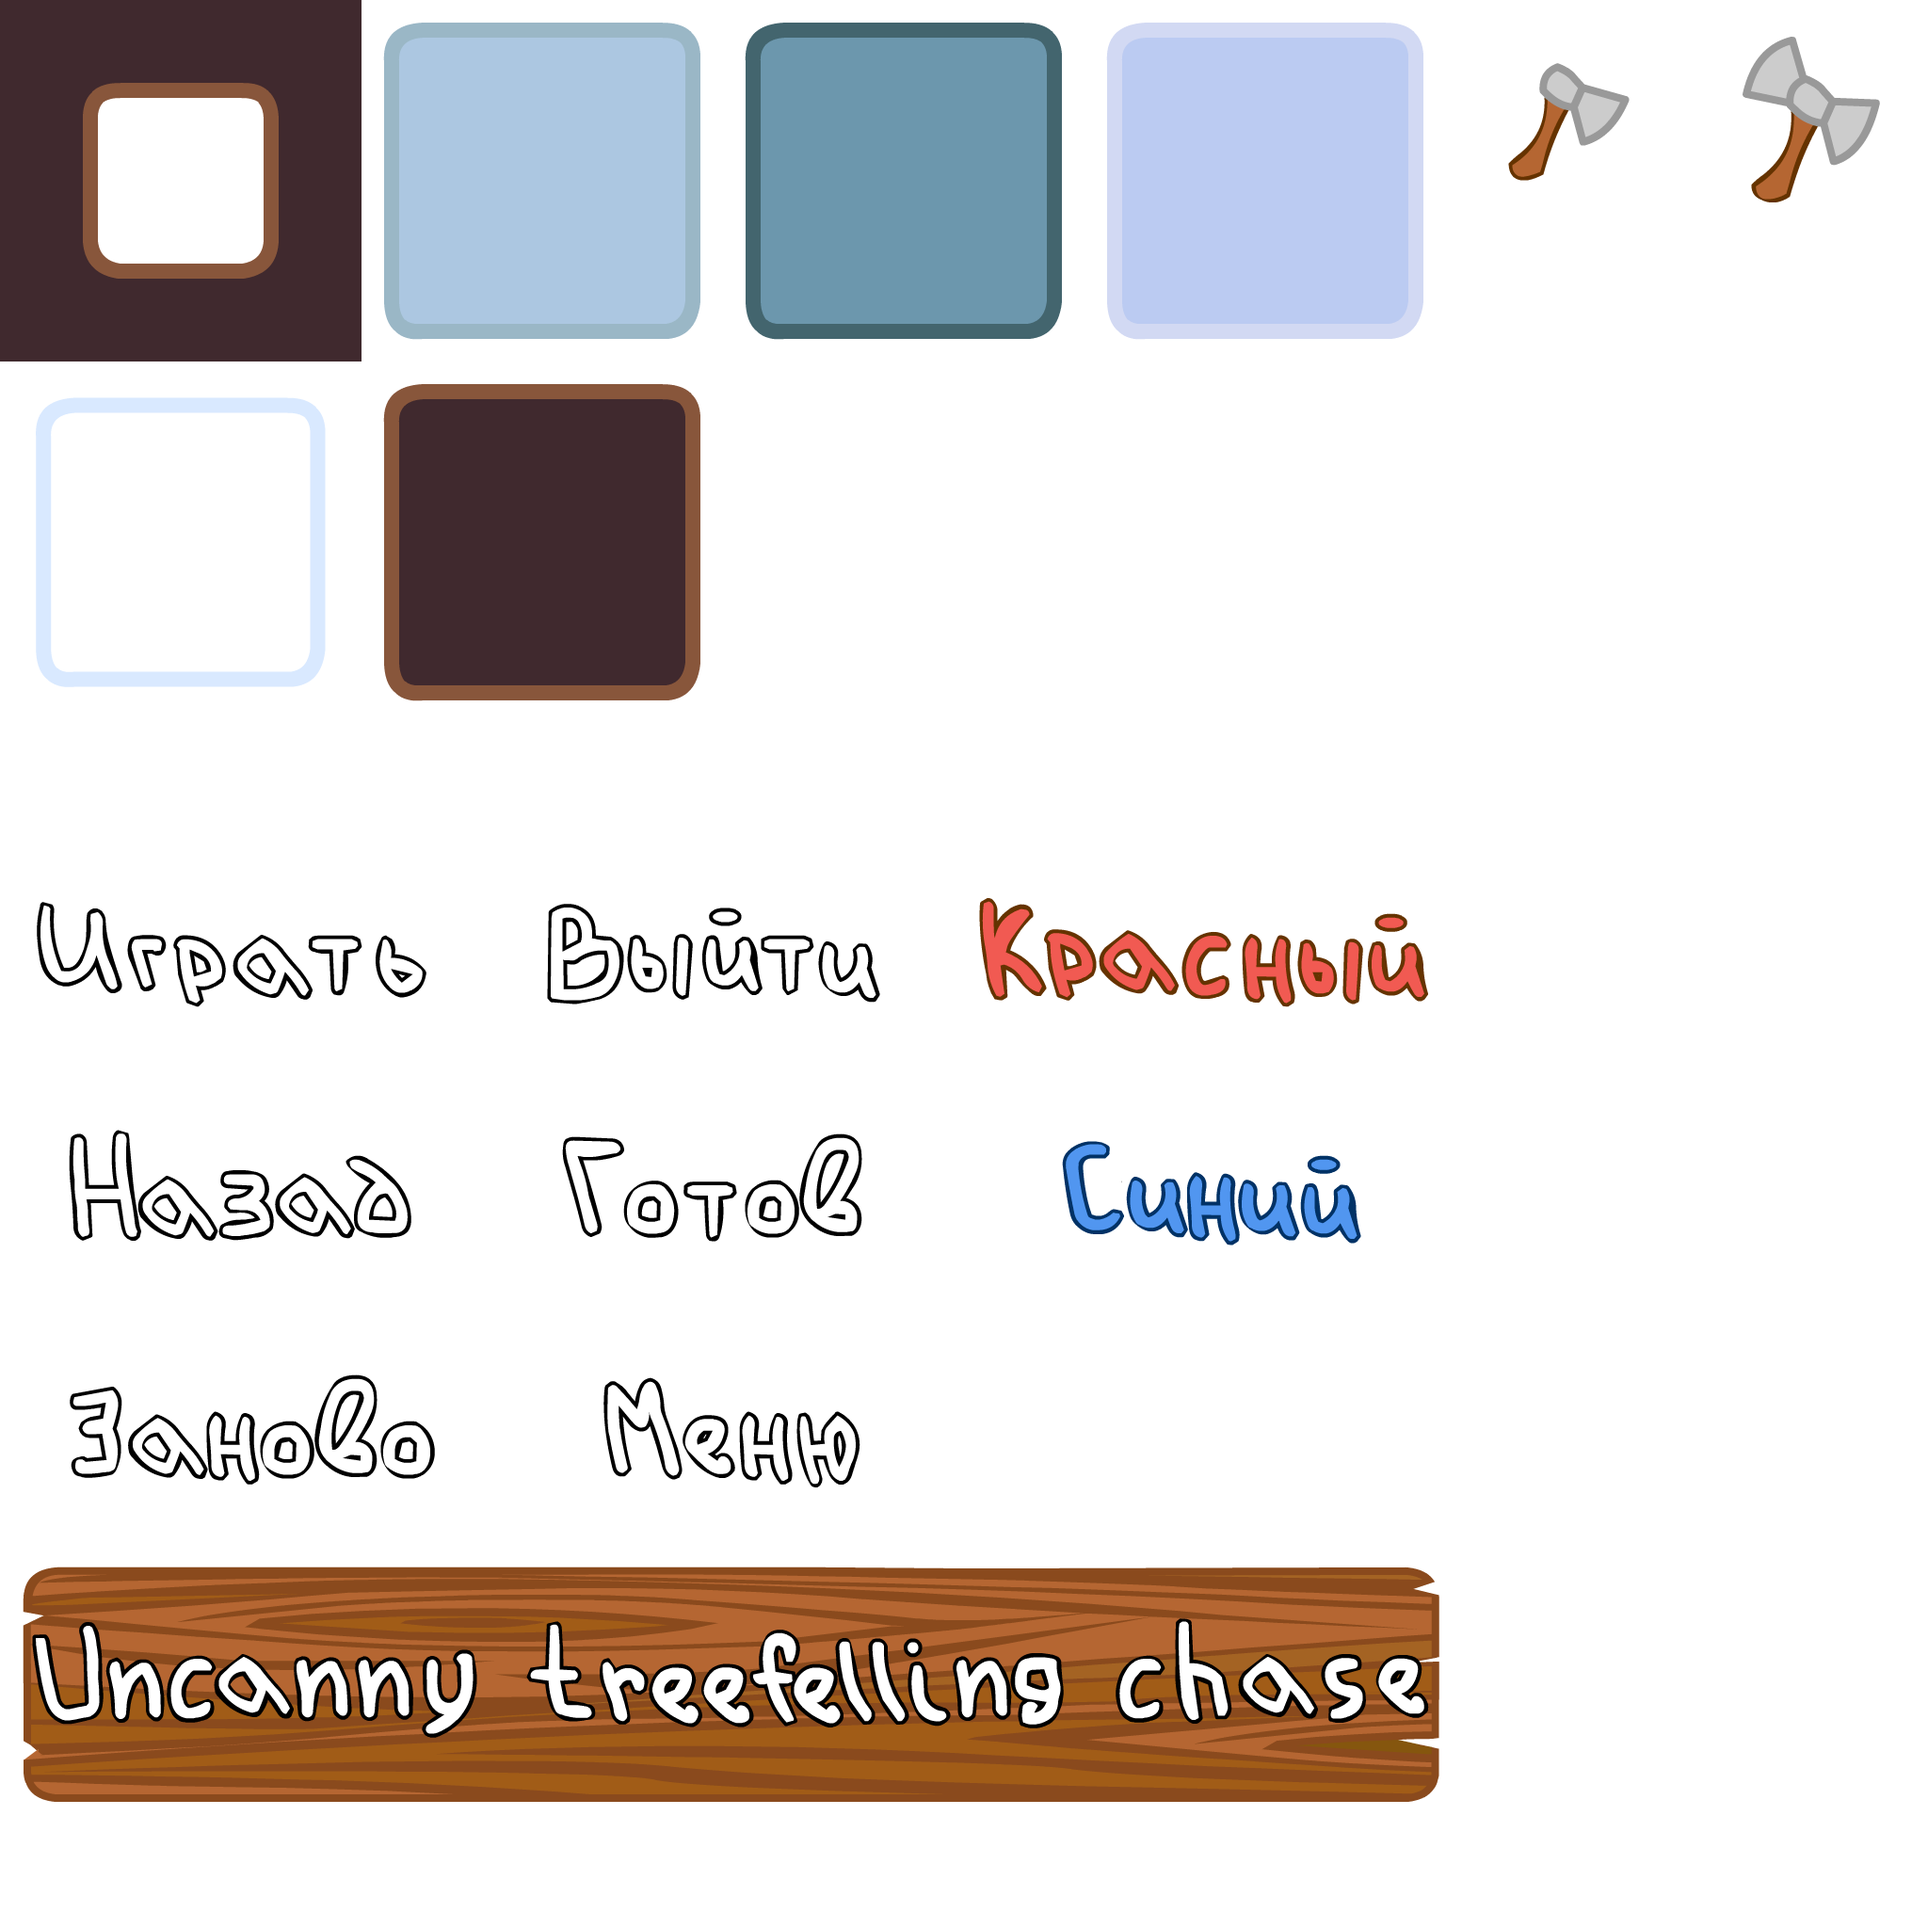
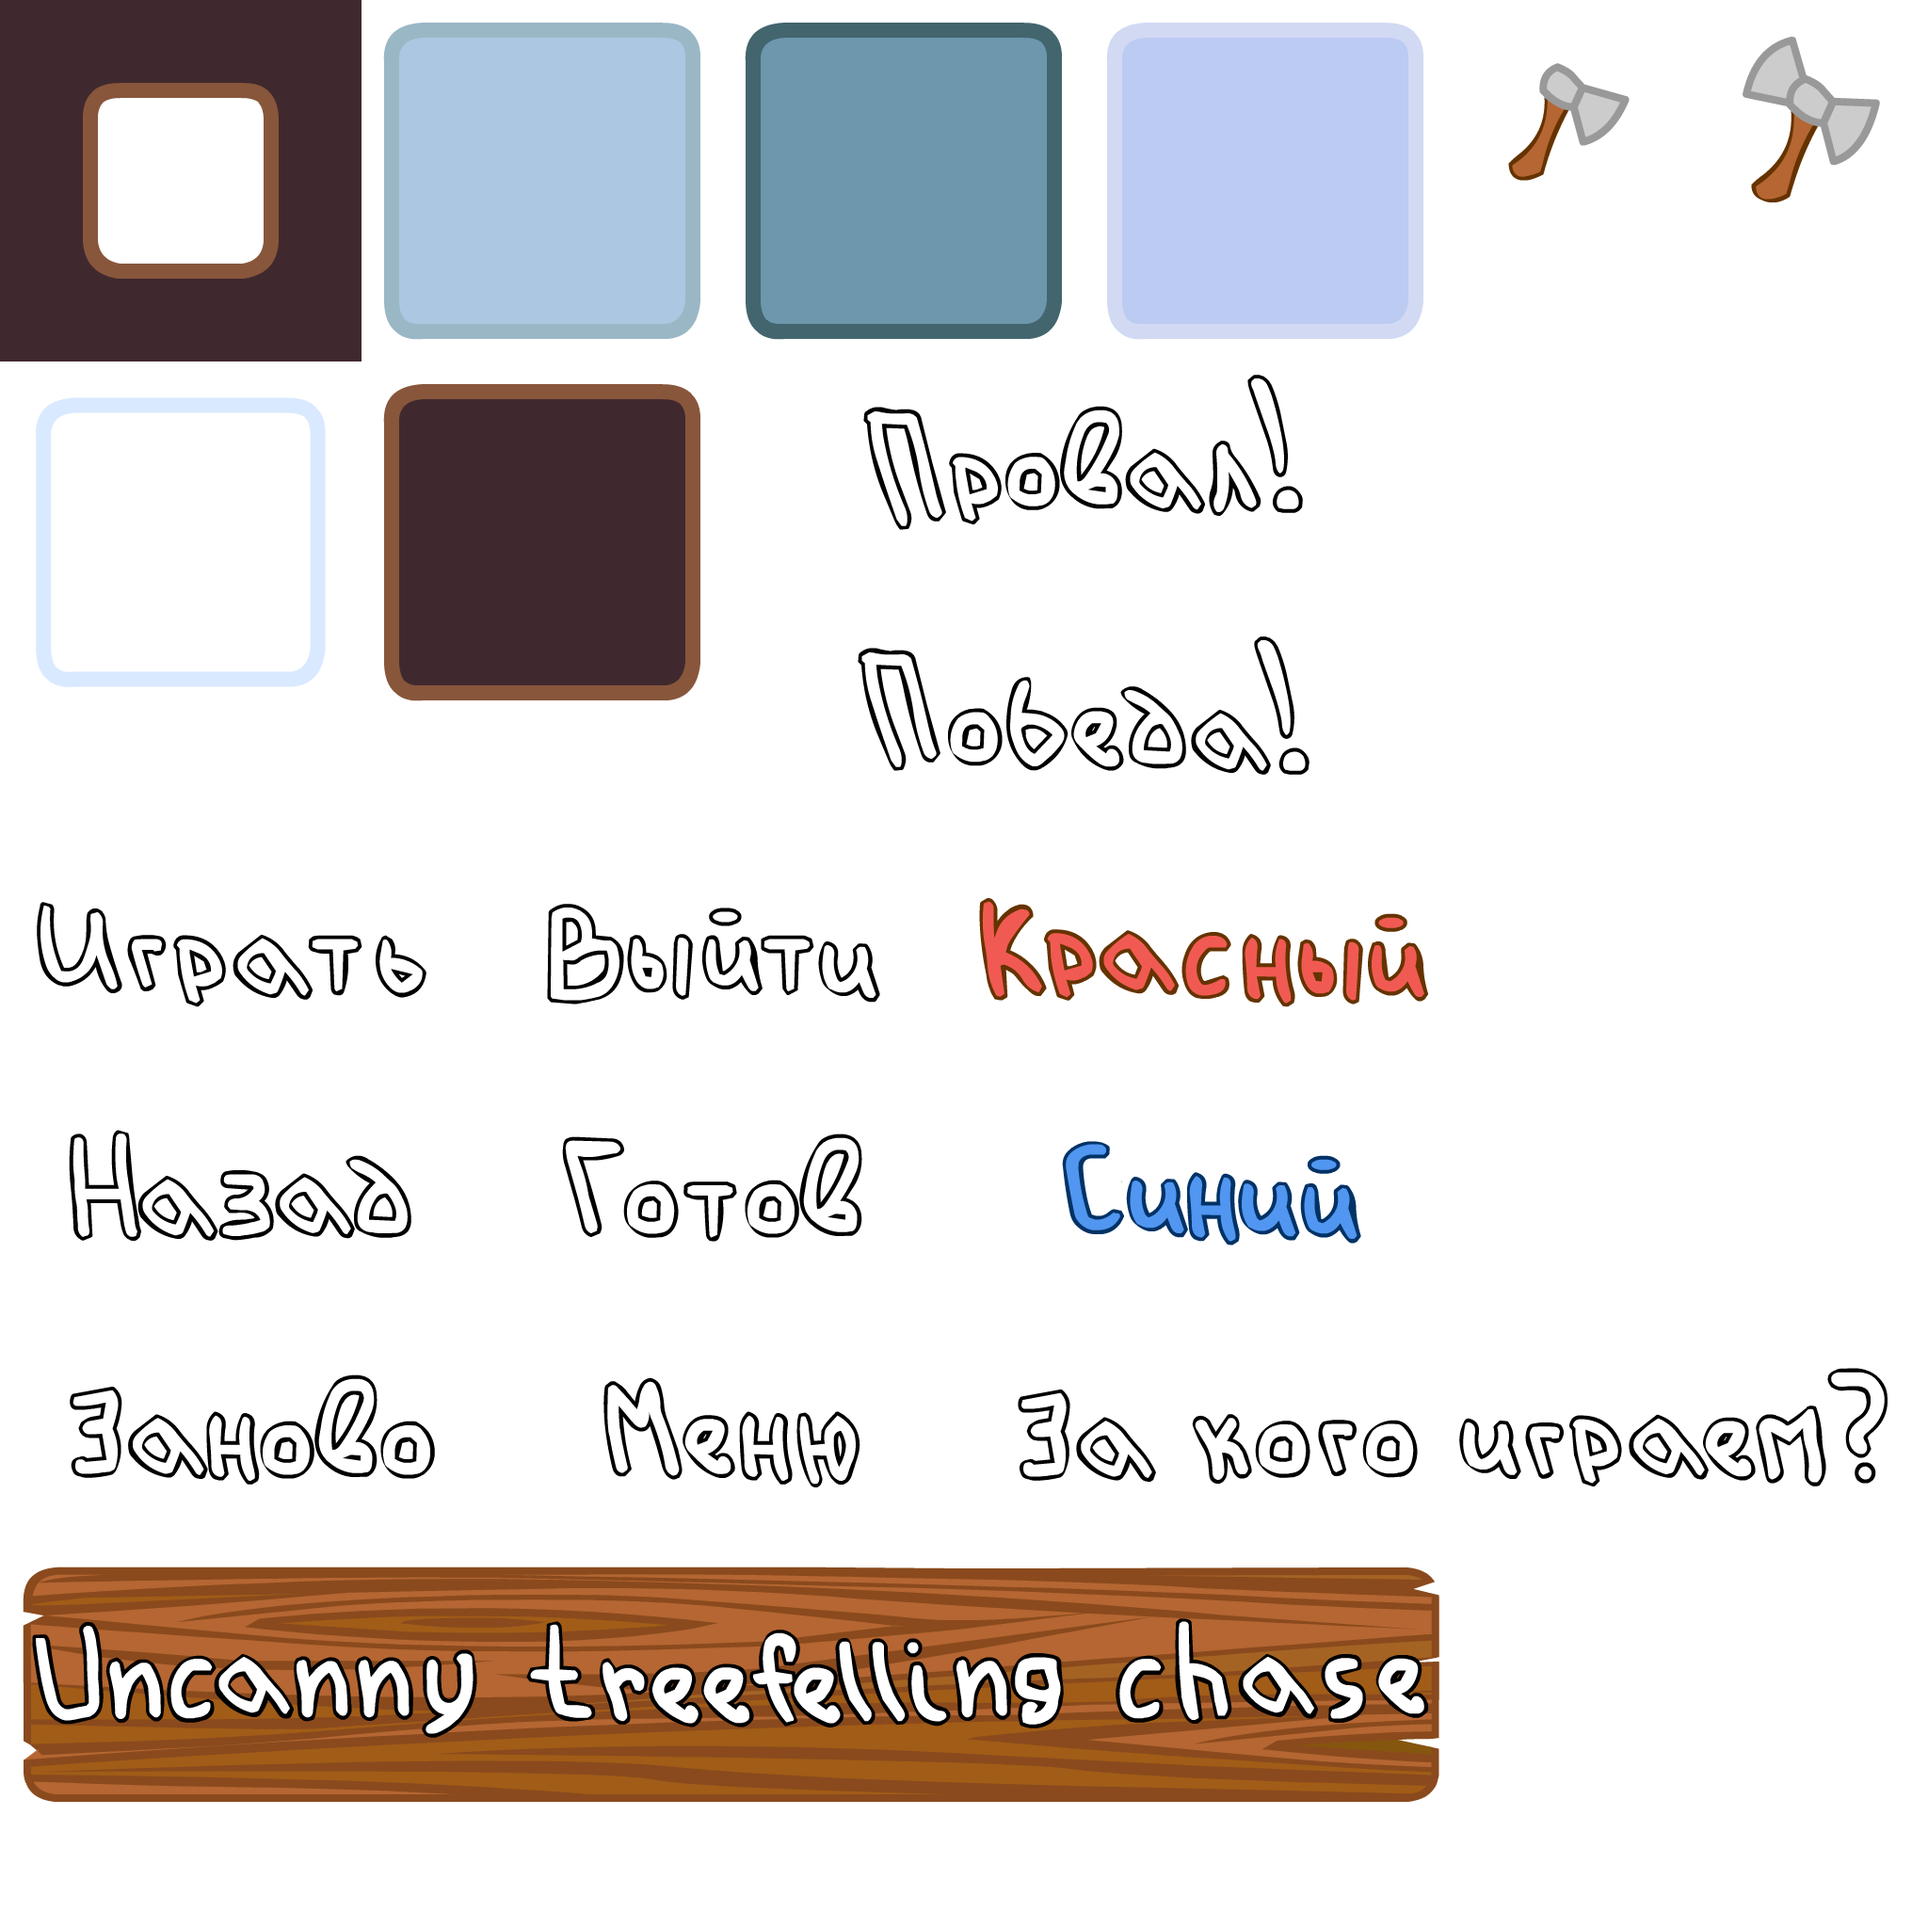
Transition to battle, start working on player and enemy landing

diff --git a/src/main.rs b/src/main.rs
@@ -5,8 +5,19 @@ use core_subsystems::forest::Forest;
 use core_subsystems::rendering::SceneCompositor;
 use core_subsystems::tilemap::Tilemap;
 use core_subsystems::types::GlobalContext;
-use crate::components::{MenuBackgroundTag, UiRect, SignalButton, PlayGameSignal, ExitGameSignal, MenuScreenElement, SignalTag, ChoosePlayerFractionSignal, GoToMainMenuSignal};
-use crate::core_subsystems::types::{MenuScreen, GameState, Fraction};
+use crate::components::{
+    MenuBackgroundTag,
+    UiRect,
+    SignalButton,
+    PlayGameSignal,
+    ExitGameSignal,
+    MenuScreenElement,
+    SignalTag,
+    ChoosePlayerFractionSignal,
+    GoToMainMenuSignal,
+    Glyph
+};
+use crate::core_subsystems::types::{MenuScreen, GameState, BattleState, Fraction};
 use std::cell::{RefCell};
 use std::ops::Deref;
 use std::collections::VecDeque;
@@ -98,10 +109,57 @@ async fn main() {
                     break 'state_search GameState::MainMenu;
                 }
                 GameState::FractionChoice => {
+                    for (_, _) in global_context.world.borrow()
+                        .query::<(&SignalTag, &GoToMainMenuSignal)>()
+                        .iter()
+                    {
+                        break 'state_search GameState::MainMenu;
+                    }
+
+                    for (_, (_, signal)) in global_context.world.borrow()
+                        .query::<(&SignalTag, &ChoosePlayerFractionSignal)>()
+                        .iter()
+                    {
+                        break 'state_search GameState::Battle {
+                            fraction: signal.fraction,
+                            internal_state: BattleState::MapGeneration
+                        };
+                    }
 
                     break 'state_search GameState::FractionChoice;
                 }
                 GameState::Battle { fraction, internal_state } => {
+                    match internal_state {
+                        BattleState::MapGeneration => {
+                            global_context.tilemap.borrow_mut().generate_new_map();
+                            global_context.forest.borrow_mut().plant_trees(
+                                &global_context.tilemap.borrow()
+                            );
+                            break 'state_search GameState::Battle {
+                                fraction: *fraction,
+                                internal_state: BattleState::EnemyLanding
+                            };
+                        }
+                        BattleState::EnemyLanding => {
+                            // todo: Land enemies
+                            break 'state_search GameState::Battle {
+                                fraction: *fraction,
+                                internal_state: BattleState::PlayerLanding {
+                                    current_minion_is_big: false
+                                }
+                            };
+                        }
+                        BattleState::PlayerLanding { .. } => {}
+                        BattleState::BattlePause => {}
+                        BattleState::Defeat => {}
+                        BattleState::Victory => {}
+                        BattleState::Simulation { .. } => {}
+                    }
+
+                    if *internal_state != BattleState::MapGeneration {
+                        exec_system! [rendering::tilemap];
+                        exec_system! [rendering::forest];
+                    }
 
                     break 'state_search GameState::Battle {
                         fraction: *fraction,
@@ -162,10 +220,18 @@ fn create_main_menu_screen(ctx: &GlobalContext) {
 fn create_choose_fraction_screen(ctx: &GlobalContext) {
     ctx.world.borrow_mut().spawn((
         MenuScreenElement { menu_screen: MenuScreen::FractionChoice },
+        Glyph { glyph_sub_rect: ctx.atlas_definition.choose_your_side_title_subrect},
+        UiRect {
+            top_left: (12, 11),
+            bottom_right: (ctx.tilemap.borrow().w as i32 - 13, 12)
+        }
+    ));
+    ctx.world.borrow_mut().spawn((
+        MenuScreenElement { menu_screen: MenuScreen::FractionChoice },
         MenuBackgroundTag,
         UiRect {
-            top_left: (10, 13),
-            bottom_right: (ctx.tilemap.borrow().w as i32 - 11, 24)
+            top_left: (12, 13),
+            bottom_right: (ctx.tilemap.borrow().w as i32 - 13, 24)
         }
     ));
     ctx.world.borrow_mut().spawn((

diff --git a/src/systems/rendering/menu_screens.rs b/src/systems/rendering/menu_screens.rs
@@ -1,7 +1,7 @@
 use crate::core_subsystems::types::{GlobalContext, MenuScreen};
 use crate::core_subsystems::rendering::{DrawCommand, DrawCommandExtra, Pivot};
 use crate::systems::rendering::ui_shared::{render_ui_background, render_idle_button_background, render_clicked_button_background, render_hover_button_background};
-use crate::components::{UiRect, MenuBackgroundTag, SignalButton, PlayGameSignal, ExitGameSignal, MenuScreenElement, ChoosePlayerFractionSignal, GoToMainMenuSignal, PauseGameSignal, UnpauseGameSignal, ChooseUnitTypeDuringLanding, ReplayGameSignal};
+use crate::components::{UiRect, MenuBackgroundTag, SignalButton, PlayGameSignal, ExitGameSignal, MenuScreenElement, ChoosePlayerFractionSignal, GoToMainMenuSignal, PauseGameSignal, UnpauseGameSignal, ChooseUnitTypeDuringLanding, ReplayGameSignal, Glyph};
 use crate::core_subsystems::peek_utils::peek_tile;
 use macroquad::input::{is_mouse_button_down, MouseButton};
 
@@ -16,6 +16,29 @@ pub fn system(ctx: &GlobalContext) {
                 continue;
             }
             render_ui_background(ctx, rect);
+        }
+
+        for (_, (glyph, menu_screen_element, rect)) in ctx.world.borrow().query::<(
+            &Glyph,
+            &MenuScreenElement,
+            &UiRect
+        )>().iter() {
+            if menu_screen != menu_screen_element.menu_screen {
+                continue;
+            }
+            ctx.scene_compositor.borrow_mut().enqueue(
+                DrawCommand {
+                    tex: ctx.ui_atlas_texture,
+                    subrect: glyph.glyph_sub_rect,
+                    x: ctx.atlas_definition.tile_width as f32 * (0.5 + (rect.top_left.0 + rect.bottom_right.0) as f32 / 2.0),
+                    y: ctx.atlas_definition.tile_height as f32 * (0.5 + (rect.top_left.1 + rect.bottom_right.1) as f32 / 2.0),
+                    scale: 2.0,
+                    drawing_extra: DrawCommandExtra::DrawWithPivot {
+                        pivot: Pivot::Relative {rel_x: 0.5, rel_y: 0.5}
+                    },
+                    sorting_layer: 4
+                }
+            );
         }
 
         handle_signal_buttons::<PlayGameSignal>(ctx, menu_screen);
@@ -62,7 +85,7 @@ pub fn system(ctx: &GlobalContext) {
                         },
                         sorting_layer: 4
                     }
-                )
+                );
             }
         }
     }

diff --git a/src/core_subsystems/types.rs b/src/core_subsystems/types.rs
@@ -103,10 +103,12 @@ pub enum GameState {
 pub enum BattleState {
     MapGeneration,
     EnemyLanding,
-    PlayerLanding,
     BattlePause,
     Defeat,
     Victory,
+    PlayerLanding {
+        current_minion_is_big: bool
+    },
     Simulation {
         red_score: u16,
         blue_score: u16
@@ -139,7 +141,7 @@ impl BattleState {
         match self {
             BattleState::MapGeneration => None,
             BattleState::EnemyLanding => None,
-            BattleState::PlayerLanding => Some(MenuScreen::PlayerLanding),
+            BattleState::PlayerLanding { .. } => Some(MenuScreen::PlayerLanding),
             BattleState::BattlePause => Some(MenuScreen::BattlePause),
             BattleState::Defeat => Some(MenuScreen::Defeat),
             BattleState::Victory => Some(MenuScreen::Victory),

diff --git a/src/components/mod.rs b/src/components/mod.rs
@@ -3,6 +3,7 @@ use crate::core_subsystems::atlas_serialization::SubRect;
 
 pub struct MenuBackgroundTag;
 pub struct SignalTag;
+pub struct SelectionTag;
 
 #[derive(Copy, Clone)]
 pub struct UiRect {
@@ -30,6 +31,11 @@ pub enum SignalCommand {
 #[derive(Copy, Clone)]
 pub struct SignalButton<TSignal: Copy + Clone> {
     pub signal_to_send: TSignal,
+    pub glyph_sub_rect: SubRect
+}
+
+#[derive(Copy, Clone)]
+pub struct Glyph {
     pub glyph_sub_rect: SubRect
 }
 

diff --git a/src/core_subsystems/atlas_serialization.rs b/src/core_subsystems/atlas_serialization.rs
@@ -105,6 +105,9 @@ pub struct AtlasDefinition {
     pub replay_button_subrect: SubRect,
     pub main_menu_button_subrect: SubRect,
     pub game_title_subrect: SubRect,
+    pub choose_your_side_title_subrect: SubRect,
+    pub victory_title_subrect: SubRect,
+    pub defeat_title_subrect: SubRect,
 
     pub ui_borders_3x3_0: SubRect,
     pub ui_borders_3x3_1: SubRect,
